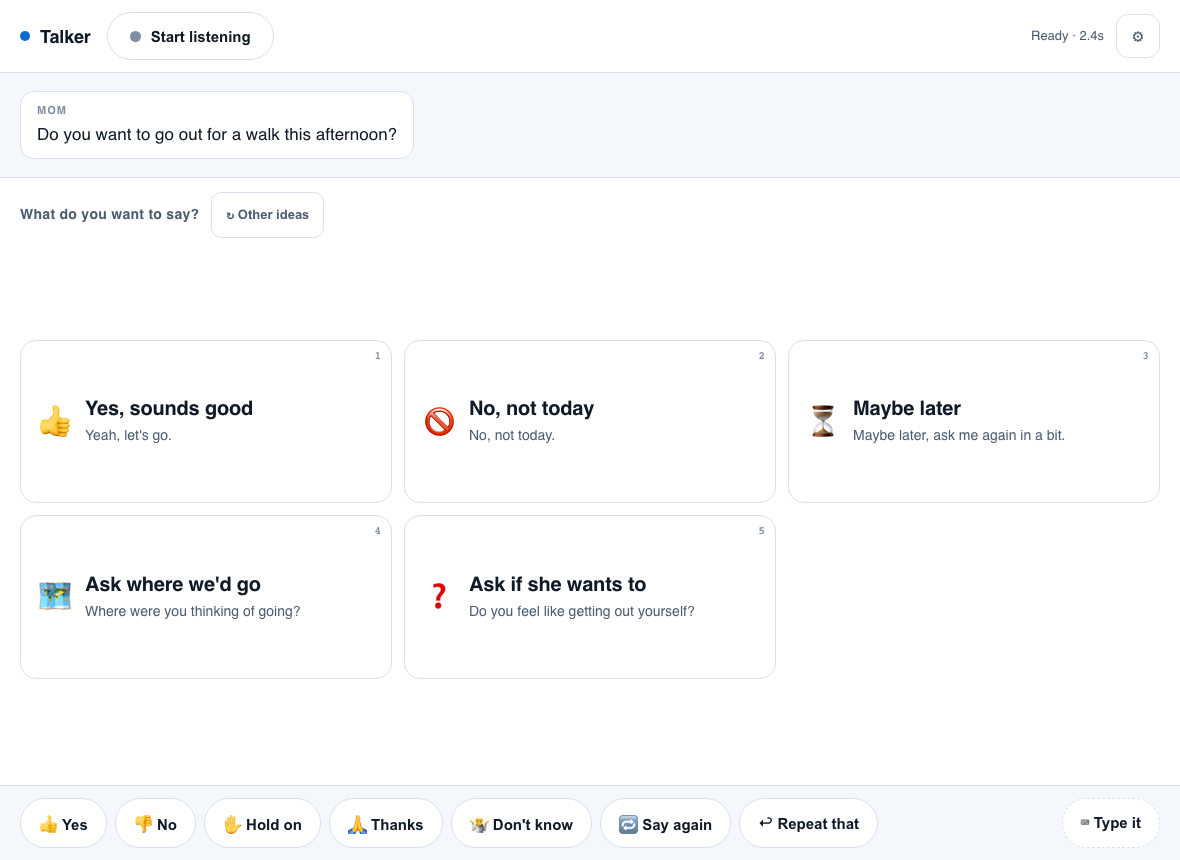
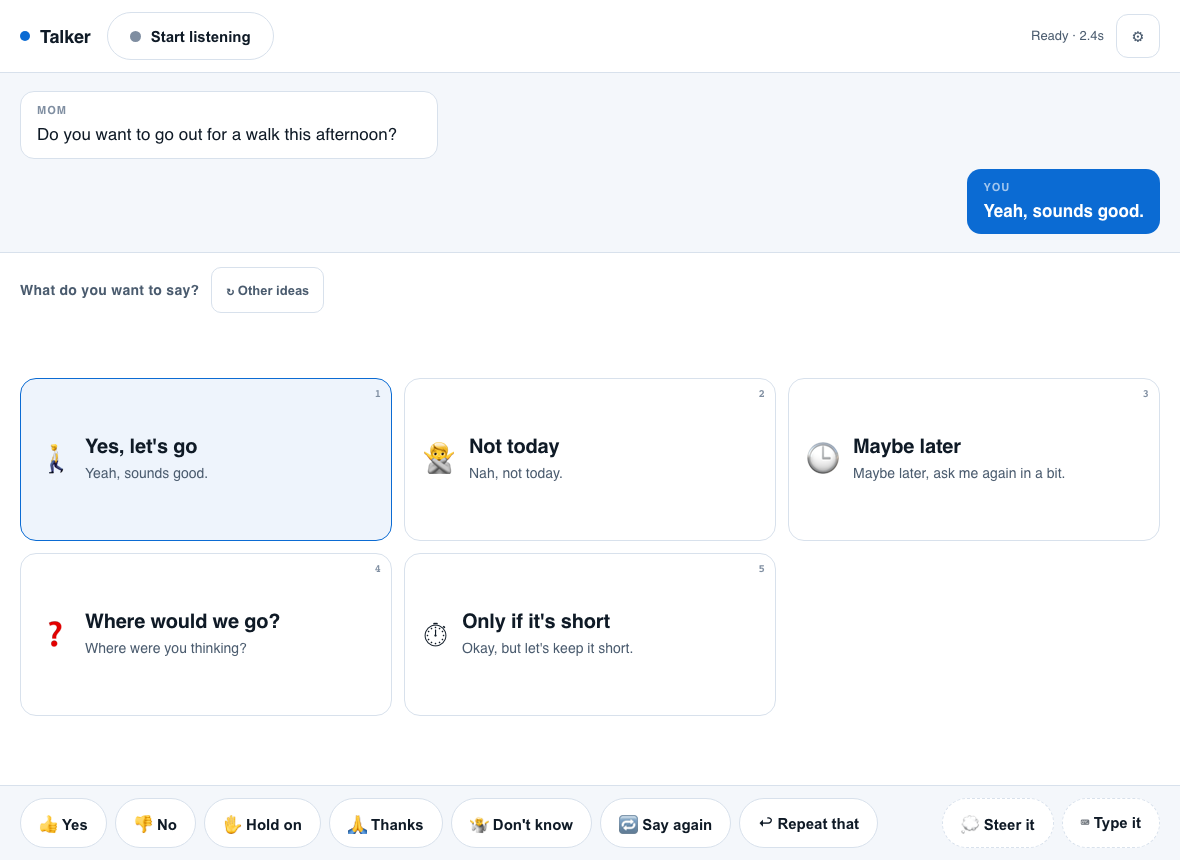
Add topic steering and misheard-line removal
Two gaps in the first pass, both of which cost the user agency.

The "steer it" dialog was built but had no reachable entry point — it only
opened from the regenerate button when the transcript was empty. It now has
its own chip. This matters more than it looks: suggestions follow the other
person's lead by default, and steering is how he starts a subject rather
than only responding to one.

Misheard lines could not be removed. Recognition errors do not just sit in
the transcript, they are sent as context on every subsequent turn, so one
bad transcription degrades every suggestion after it. Heard lines now carry
a delete control (always visible on touch, where there is no hover).

UI check covers both paths.

diff --git a/public/app.js b/public/app.js
@@ -135,6 +135,24 @@ function addTurn(turn) {
   body.textContent = turn.text;
   node.append(who, body);
 
+  // Speech recognition mishears, and a wrong turn doesn't just sit there — it
+  // is fed into every following suggestion. Let it be dropped.
+  if (turn.speaker !== 'me') {
+    const drop = document.createElement('button');
+    drop.className = 'turn-drop';
+    drop.textContent = '×';
+    drop.title = 'Misheard — remove this';
+    drop.setAttribute('aria-label', `Remove misheard line: ${turn.text}`);
+    drop.addEventListener('click', () => {
+      const at = state.turns.indexOf(turn);
+      if (at !== -1) state.turns.splice(at, 1);
+      node.remove();
+      if (!state.turns.length) renderMessage('Press Space to start listening, or use ⌨ Type it.');
+      toast('Removed');
+    });
+    node.append(drop);
+  }
+
   document.querySelector('.turn-interim')?.remove();
   el.transcript.append(node);
   el.transcript.scrollTop = el.transcript.scrollHeight;
@@ -496,6 +514,12 @@ $('repeat-last').addEventListener('click', () => {
   const voice = voices.find((v) => v.voiceURI === state.settings.voiceURI);
   if (voice) utter.voice = voice;
   speechSynthesis.speak(utter);
+});
+
+$('open-nudge').addEventListener('click', () => {
+  el.nudgeInput.value = '';
+  el.nudgeDialog.showModal();
+  el.nudgeInput.focus();
 });
 
 $('open-type').addEventListener('click', () => {

diff --git a/public/styles.css b/public/styles.css
@@ -234,9 +234,41 @@ body {
 }
 
 .turn-them {
+  position: relative;
   align-self: flex-start;
   background: var(--bg-tile);
   border: 1px solid var(--line);
+  padding-right: 40px;
+}
+
+.turn-drop {
+  position: absolute;
+  top: 6px;
+  right: 6px;
+  width: 28px;
+  height: 28px;
+  border: none;
+  border-radius: 8px;
+  background: none;
+  color: var(--text-faint);
+  font-size: 19px;
+  line-height: 1;
+  cursor: pointer;
+  opacity: 0;
+  transition: opacity 0.12s, color 0.12s;
+}
+.turn-them:hover .turn-drop,
+.turn-drop:focus-visible {
+  opacity: 1;
+}
+.turn-drop:hover {
+  color: var(--tone-firm);
+}
+/* Touch devices have no hover, so keep it permanently visible there. */
+@media (hover: none) {
+  .turn-drop {
+    opacity: 0.6;
+  }
 }
 
 /* His own speech is visually dominant — it is the point of the app. */
@@ -519,9 +551,14 @@ kbd {
   outline: 3px solid var(--accent);
   outline-offset: 2px;
 }
-.chip-type {
-  margin-left: auto;
+.chip-compose {
   border-style: dashed;
+}
+.chip-compose:first-of-type {
+  margin-left: auto;
+}
+#open-nudge {
+  margin-left: auto;
 }
 
 /* ── Dialogs ─────────────────────────────────────────────────────────── */

diff --git a/test/ui-check.js b/test/ui-check.js
@@ -56,6 +56,19 @@ await page.waitForTimeout(400);
 const spoken = await page.evaluate(() => window.__spoken);
 await page.screenshot({ path: `${OUT}/3-spoken.png` });
 
+// A misheard line must be removable — otherwise it poisons every later turn.
+const before = await page.evaluate(() => window.talker.state.turns.length);
+await page.hover('.turn-them');
+await page.click('.turn-them .turn-drop');
+const after = await page.evaluate(() => window.talker.state.turns.length);
+if (after !== before - 1) problems.push(`dropping a misheard turn did not update state (${before}→${after})`);
+
+// "Steer it" must actually open — the feature is useless if unreachable.
+await page.click('#open-nudge');
+const nudgeOpen = await page.evaluate(() => document.getElementById('nudge-dialog').open);
+if (!nudgeOpen) problems.push('#open-nudge did not open the steer dialog');
+await page.evaluate(() => document.getElementById('nudge-dialog').close());
+
 // Light theme render
 await page.emulateMedia({ colorScheme: 'light' });
 await page.waitForTimeout(400); // let colour transitions settle before capture

diff --git a/public/index.html b/public/index.html
@@ -62,7 +62,8 @@
         <button class="chip" data-say="I don't know.">🤷 Don't know</button>
         <button class="chip" data-say="Could you say that again?">🔁 Say again</button>
         <button class="chip" id="repeat-last">↩ Repeat that</button>
-        <button class="chip chip-type" id="open-type">⌨ Type it</button>
+        <button class="chip chip-compose" id="open-nudge">💭 Steer it</button>
+        <button class="chip chip-compose" id="open-type">⌨ Type it</button>
       </nav>
     </div>
 

diff --git a/README.md b/README.md
@@ -56,6 +56,13 @@ its height, so the layout never reflows under a finger already on its way down.
 **Always an escape hatch.** The suggestions will sometimes miss. Quick phrases
 (Yes / No / Hold on / Say again) are always on screen and never touch the network,
 and "⌨ Type it" is always one tap away. If the API is down, those still work.
+"💭 Steer it" takes a few words about what he wants to talk about and builds the
+five tiles around that instead — the suggestions follow the other person's lead by
+default, and this is how he takes it back.
+
+**Misheard lines can be deleted.** Recognition errors don't just sit in the
+transcript, they get fed into every following suggestion. Hovering a heard line
+shows a × that removes it.
 
 **Emotional range on purpose.** A suggestion set where every option is pleasant
 can't express how he actually feels. Being annoyed, bored, or done talking are
@@ -147,8 +154,12 @@ Working prototype. What it does not yet have:
 
 - **No real-user testing.** Everything here is a guess about what helps until he
   has used it. The intent categories and the tone set are the first things that
-  should change based on what he actually reaches for.
-- Nothing handles the microphone picking up a third person in the room.
-- Recognition errors go into the transcript unedited, and a garbled transcript
-  produces garbled suggestions. There's no way to correct a turn yet.
+  should change based on what he actually reaches for, and the tone names
+  (`casual`, `warm`, `firm`…) are placeholders until he says what fits.
+- Nothing handles the microphone picking up a third person in the room —
+  everything heard is attributed to one conversation partner.
+- A misheard line can be deleted but not edited, so a mostly-right transcription
+  has to be thrown away rather than fixed.
 - Memory has no undo — a bad fact has to be edited out by hand in settings.
+- Group conversations, phone calls, and anything that isn't two people in a room
+  are out of scope so far.
